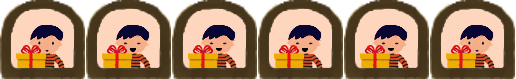
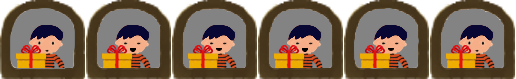
window animations fixes

diff --git a/src/Preloader.js b/src/Preloader.js
@@ -36,7 +36,7 @@ Game.Preloader.prototype = {
         this.load.image('houseDarkChimney', 'assets/images/houseDarkChimney.png');
         this.load.image('houseDarkWalls', 'assets/images/houseDarkWalls.png');
         this.load.image('roof', 'assets/images/roof.png');
-        this.load.image('windowCheckered', 'assets/images/windowCheckered.png');
+        this.load.image('windowCheckered', 'assets/images/windowCheckered2.png');
 
         this.load.spritesheet('babka', 'assets/images/babka.png', 86, 79, 6);
         this.load.spritesheet('boy', 'assets/images/happyboy.png', 86, 79, 6);
